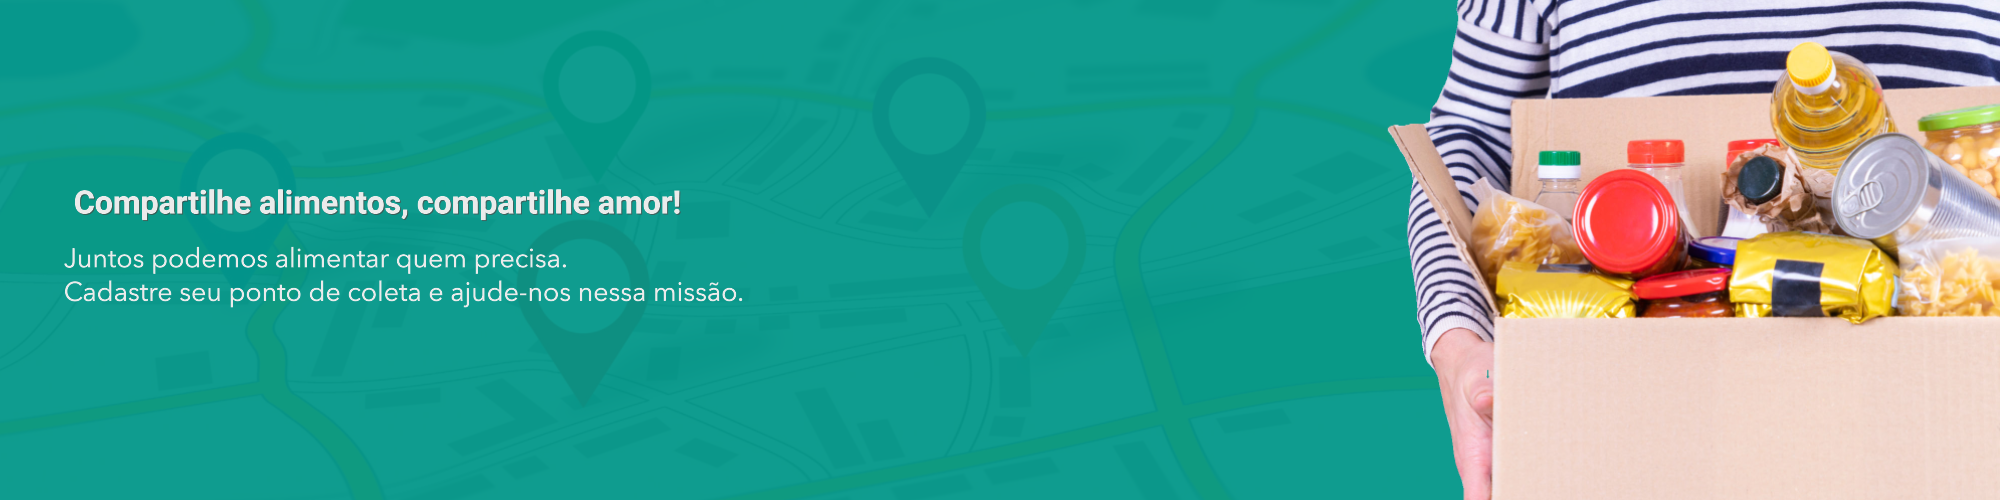
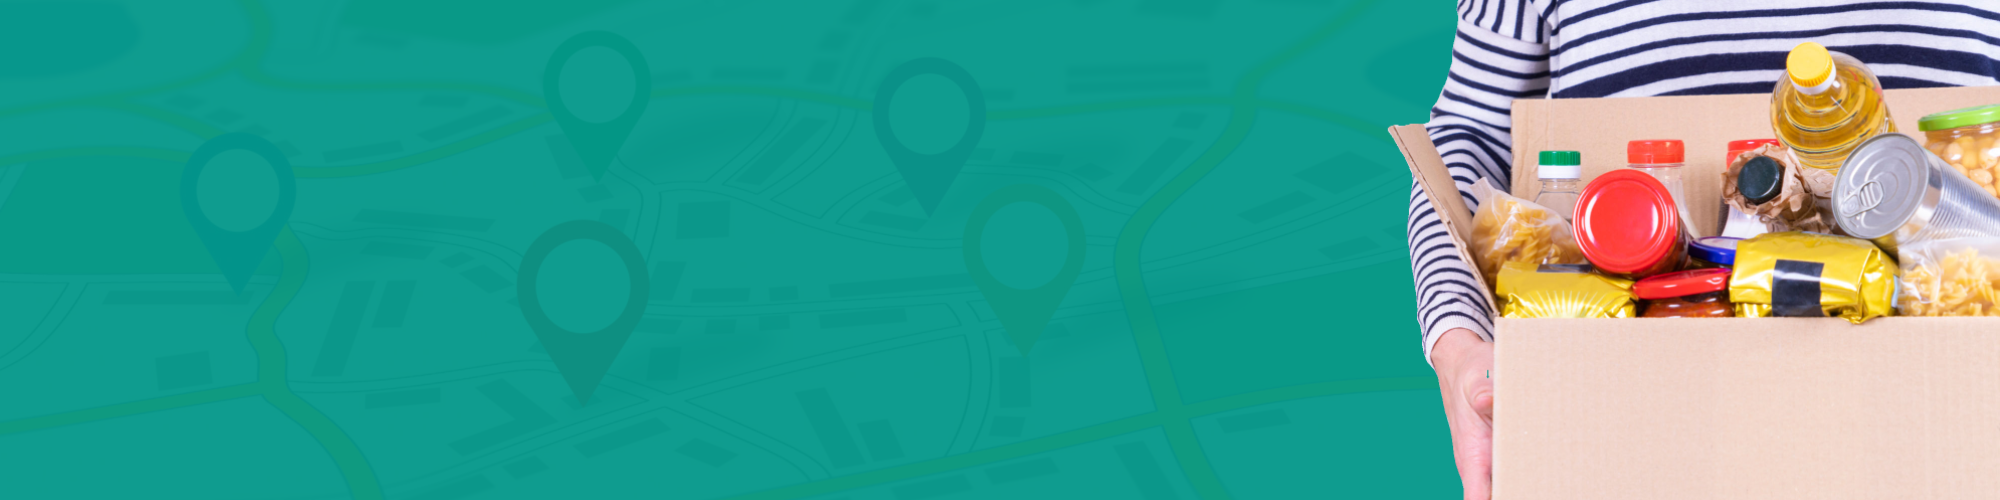
ajuste nas rotas para iniciacao

Changed region(s): [[0.031, 0.36, 0.341, 0.45], [0.031, 0.57, 0.372, 0.6], [0.031, 0.51, 0.279, 0.54]]

diff --git a/src/public/css/styles.css b/src/public/css/styles.css
@@ -11,6 +11,15 @@
     font-weight: 500;
 }
 
+.imagem-login {
+    background: url('/src/public/images/colorido.png');
+    padding: 0;
+    height: 100px !important;
+    width: auto !important;
+    box-sizing: border-box;
+    background-size: cover;
+}
+
 .coletai-header {
     position: relative;
     height: 200px;
@@ -19,13 +28,26 @@
     background-size: cover;
 }
 
+.coletai-header-text-title {
+    font-family: 'Roboto', 'Helvetica', 'Arial', sans-serif;
+    font-size: 18px;
+    margin: 0 16px;
+    color: aliceblue;
+    text-align: left;
+    font-weight: bold;
+    padding-top: 60px;
+}
+
 .coletai-header-text {
     font-family: 'Roboto', 'Helvetica', 'Arial', sans-serif;
     font-weight: 100;
-    font-size: 26px;
-    margin: 0 16px;
-    padding-top: 50px;
+    font-size: 18px;
+    margin-left: 16px;
+    margin-top: 0;
+    margin-bottom: 0;
+    padding: 0;
     color: aliceblue;
+    text-align: left;
 }
 
 .logo-link {
@@ -309,4 +331,4 @@
 .mdl-card__actions {
     display: flex;
     justify-content: flex-end;
-  }
+}

diff --git a/src/views/edita-ponto.html b/src/views/edita-ponto.html
@@ -112,7 +112,7 @@
                             <input class="mdl-textfield__input" type="text" id="estado">
                             <label class="mdl-textfield__label" for="estado-ponto">Estado</label>
                         </div>
-
+                        <!--
                         <div class="mdl-cell mdl-cell--12-col mdl-textfield mdl-js-textfield mdl-textfield--file">
                             <input class="mdl-textfield__input" type="text" readonly
                                 id="uploadFile">
@@ -121,7 +121,7 @@
                                     onchange="document.getElementById('uploadFile').value = this.files[0].name;">
                             </div>
                         </div>
-
+                        -->
                     </form>
 
                     <div class="mdl-cell mdl-cell--12-col mdl-grid">

diff --git a/src/views/cadastro-ponto.html b/src/views/cadastro-ponto.html
@@ -116,7 +116,7 @@
                             <input class="mdl-textfield__input" type="text" id="estado" maxlength="2">
                             <label class="mdl-textfield__label" for="estado-ponto">Estado</label>
                         </div>
-
+                        <!--
                         <div class="mdl-cell mdl-cell--12-col mdl-textfield mdl-js-textfield mdl-textfield--file">
                             <input class="mdl-textfield__input" type="text" readonly id="uploadFile">
                             <div class="mdl-button mdl-button--file">
@@ -124,6 +124,7 @@
                                     onchange="document.getElementById('uploadFile').value = this.files[0].name;">
                             </div>
                         </div>
+                        -->
 
                     </form>
 

diff --git a/src/public/js/meus-pontos.js b/src/public/js/meus-pontos.js
@@ -23,9 +23,6 @@ var script_pagina = function () {
                 const novaDiv = document.createElement('div'); // cria um novo elemento div
                 novaDiv.classList.add('mdl-cell', 'mdl-cell--3-col', 'mdl-card', 'mdl-shadow--3dp'); // define suas classes
                 novaDiv.innerHTML = `
-                <div class="mdl-card__media">
-                    <img src="/images/fundo-imagem.png">
-                </div>
                 <div class="mdl-card__title" id="nome-ponto">
                     <h4 class="mdl-card__title-text font-color-destaque">${obj.nome}</h4>
                 </div>

diff --git a/src/public/js/resultado-pesquisa.js b/src/public/js/resultado-pesquisa.js
@@ -23,9 +23,6 @@ var script_pagina = function () {
                 const novaDiv = document.createElement('div'); // cria um novo elemento div
                 novaDiv.classList.add('mdl-cell', 'mdl-cell--3-col', 'mdl-card', 'mdl-shadow--3dp'); // define suas classes
                 novaDiv.innerHTML = `
-                <div class="mdl-card__media">
-                    <img src="/images/fundo-imagem.png">
-                </div>
                 <div class="mdl-card__title" id="nome-ponto">
                     <h4 class="mdl-card__title-text font-color-destaque">${obj.nome}</h4>
                 </div>

diff --git a/src/public/js/todos-pontos-autenticado.js b/src/public/js/todos-pontos-autenticado.js
@@ -23,9 +23,6 @@ var script_pagina = function () {
                 const novaDiv = document.createElement('div'); // cria um novo elemento div
                 novaDiv.classList.add('mdl-cell', 'mdl-cell--3-col', 'mdl-card', 'mdl-shadow--3dp'); // define suas classes
                 novaDiv.innerHTML = `
-                <div class="mdl-card__media">
-                    <img src="/images/fundo-imagem.png">
-                </div>
                 <div class="mdl-card__title" id="nome-ponto">
                     <h4 class="mdl-card__title-text font-color-destaque">${obj.nome}</h4>
                 </div>

diff --git a/src/public/js/todos-pontos.js b/src/public/js/todos-pontos.js
@@ -19,9 +19,6 @@ var script_pagina = function () {
                 const novaDiv = document.createElement('div'); // cria um novo elemento div
                 novaDiv.classList.add('mdl-cell', 'mdl-cell--3-col', 'mdl-card', 'mdl-shadow--3dp'); // define suas classes
                 novaDiv.innerHTML = `
-                <div class="mdl-card__media">
-                    <img src="/images/fundo-imagem.png">
-                </div>
                 <div class="mdl-card__title" id="nome-ponto">
                     <h4 class="mdl-card__title-text font-color-destaque">${obj.nome}</h4>
                 </div>

diff --git a/src/public/js/resultado-pesquisa-autenticado.js b/src/public/js/resultado-pesquisa-autenticado.js
@@ -31,9 +31,6 @@ var script_pagina = function () {
                 const novaDiv = document.createElement('div'); // cria um novo elemento div
                 novaDiv.classList.add('mdl-cell', 'mdl-cell--3-col', 'mdl-card', 'mdl-shadow--3dp'); // define suas classes
                 novaDiv.innerHTML = `
-              <div class="mdl-card__media">
-                  <img src="/images/fundo-imagem.png">
-              </div>
               <div class="mdl-card__title" id="nome-ponto">
                   <h4 class="mdl-card__title-text font-color-destaque">${obj.nome}</h4>
               </div>

diff --git a/src/views/index.html b/src/views/index.html
@@ -48,6 +48,9 @@
     <div class="mdl-layout__content">
 
       <div class="mdl-typography--text-center coletai-header">
+        <p class="coletai-header-text-title">Compartilhe alimentos, compartilhe amor!</p>
+        <p class="coletai-header-text">Juntos podemos alimentas quem precisa.</p>
+        <p class="coletai-header-text">Cadastre seu ponto de coleta e ajude-nos nessa missão.</p>
       </div>
 
       <div class="coletai-cards-todos">
